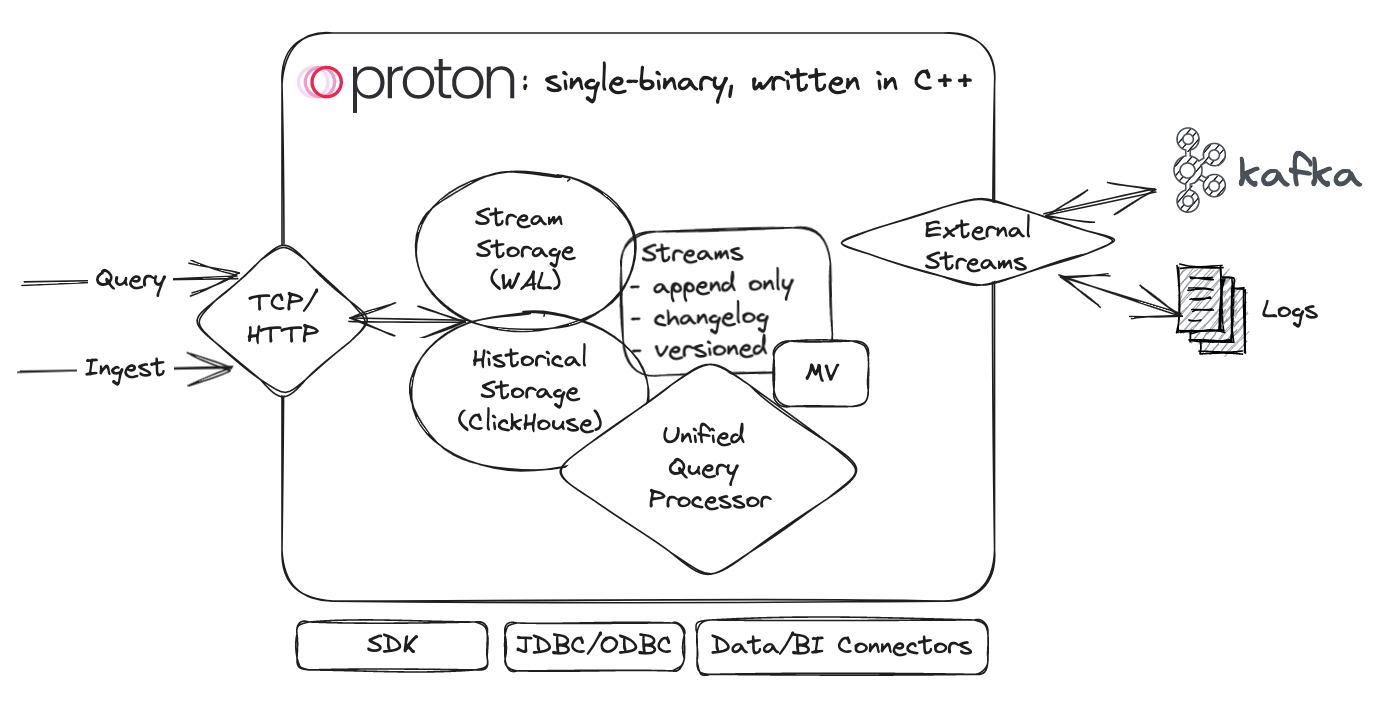
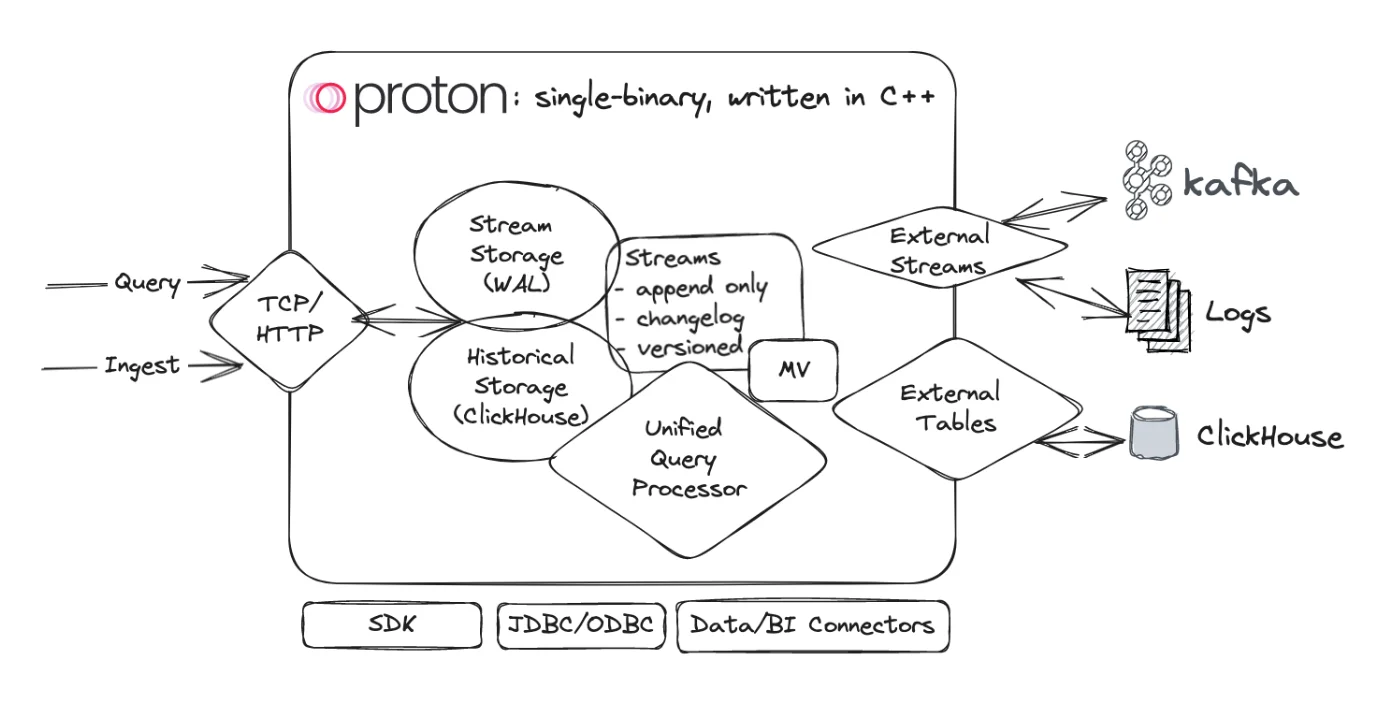
update high level diagram and revert change for No.4

diff --git a/README.md b/README.md
@@ -34,7 +34,7 @@ Proton is a streaming SQL engine, a fast and lightweight alternative to Apache F
    
 3. **Lightweight**:  Proton is a single binary (\<500MB). No JVM or any other dependencies. You can also run it with Docker, or on an AWS t2.nano instance (1 vCPU and 0.5 GiB memory).
    
-4. **Powered by [ClickHouse](https://github.com/clickhouse/clickhouse)**:  Proton can connect stream processing to the historical data storage and processing in ClickHouse to enable a powerful unified processing in one single engine. With Proton, ClickHouse users can quickly connect, process and analyze streaming data with the same powerful compuation capabilties.
+4. **Powered by the fast, resource efficient and mature [ClickHouse](https://github.com/clickhouse/clickhouse).**  Proton extends the historical data, storage, and computing functionality of ClickHouse with stream processing. Thousands of SQL functions are available in Proton. Billions of rows in are queried in milliseconds.
    
 5. **Best streaming SQL engine for [Kafka](https://kafka.apache.org/) or [Redpanda](https://redpanda.com/)**: 
  Query the live data in Kafka or other compatiable streaming data platforms, with [external streams](https://docs.timeplus.com/proton-kafka).
